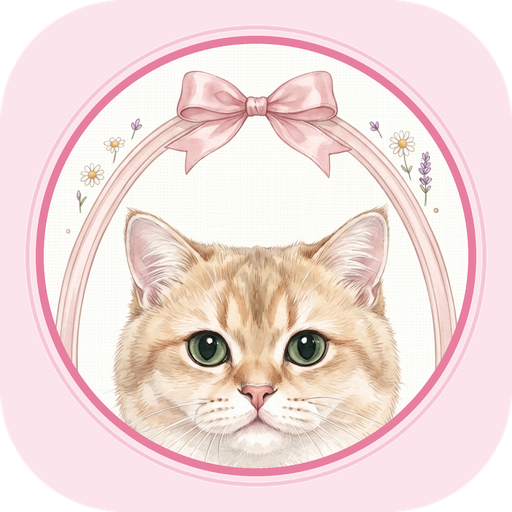
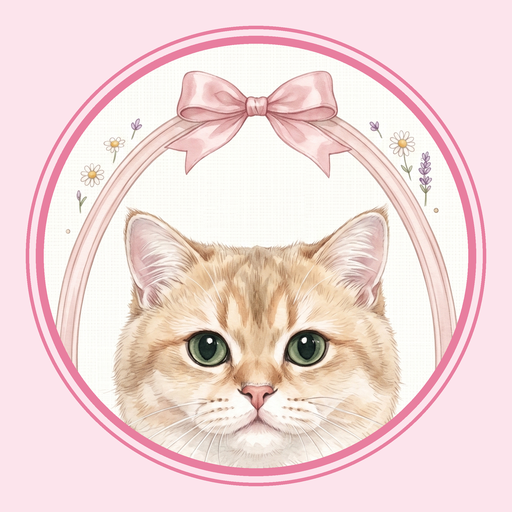
fix: 图标去 alpha 通道改不透明全底，修复 iOS 主屏幕变黑

diff --git a/sw.js b/sw.js
@@ -1,4 +1,4 @@
-const CACHE = 'neko-kcal-v5';
+const CACHE = 'neko-kcal-v6';
 const ASSETS = ['./index.html', './manifest.json', './icon-180.png', './icon-512.png', './avatar.png', './'];
 
 self.addEventListener('install', e => {
